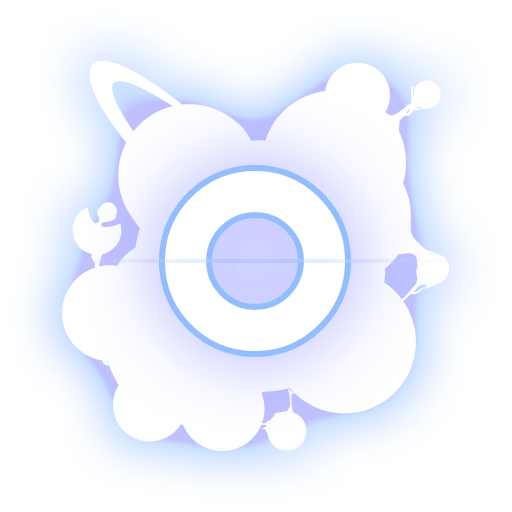
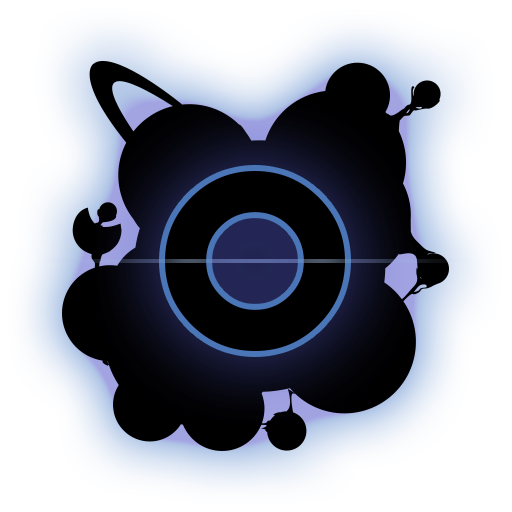
Endpoint-served background image

diff --git a/app/page.tsx b/app/page.tsx
@@ -35,6 +35,7 @@ import EditServerModal from "./EditServerModal";
 import DeleteServerModal from "./DeleteServerModal";
 import AboutModal from "./AboutModal";
 import LoginModal from "./LoginModal";
+import BackgroundImages from "./BackgroundImages";
 
 const initTasks: LoadingTask[] = [
   {
@@ -280,146 +281,147 @@ export default function Home() {
     <>
       <AlertList alerts={alerts} />
       {loadingTasks.length > 0 && <LoadingScreen tasks={loadingTasks} />}
-        <Container id="serverselector-container">
-          <Row id="of-logoheader" className="text-center pt-3">
-            <Col>
-              <Image
-                id="of-logo-light"
-                src={ofLogoLight}
-                alt="OpenFusion Logo"
-                width={256}
+      <BackgroundImages servers={servers} selectedServer={getSelectedServer()} />
+      <Container id="serverselector-container">
+        <Row id="of-logoheader" className="text-center pt-3">
+          <Col>
+            <Image
+              id="of-logo-light"
+              src={ofLogoLight}
+              alt="OpenFusion Logo"
+              width={256}
+            />
+            <Image
+              id="of-logo-dark"
+              src={ofLogoDark}
+              alt="OpenFusion Logo"
+              width={256}
+            />
+            <div id="of-intro-text">
+              {tagline.split("\n").map((line, index) => (
+                <p className="fw-bold" key={index}>{line}</p>
+              ))}
+            </div>
+          </Col>
+        </Row>
+        <Row
+          id="server-list"
+          className="d-sm-flex d-xl-flex justify-content-center justify-content-sm-center justify-content-xl-center"
+        >
+          <Col xs={8} className="mb-2">
+            <ServerList
+              servers={servers}
+              versions={versions}
+              selectedServer={selectedServer}
+              setSelectedServer={setSelectedServer}
+              onConnect={(serverUuid) => {
+                setSelectedServer(serverUuid);
+                showLoginOrConnect(serverUuid);
+              }}
+            />
+          </Col>
+        </Row>
+        <Row className="justify-content-center pb-4">
+          <Col xs={4}>
+            <Stack gap={1} direction="horizontal">
+              <Button
+                onClick={() => setShowAddModal(true)}
+                enabled={true}
+                variant="success"
+                icon="plus"
+                tooltip="Add server"
               />
-              <Image
-                id="of-logo-dark"
-                src={ofLogoDark}
-                alt="OpenFusion Logo"
-                width={256}
+              <Button
+                onClick={() => setShowEditModal(true)}
+                enabled={selectedServer ? true : false}
+                variant="primary"
+                icon="edit"
+                tooltip="Edit server"
               />
-              <div id="of-intro-text">
-                {tagline.split("\n").map((line, index) => (
-                  <p key={index}>{line}</p>
-                ))}
-              </div>
-            </Col>
-          </Row>
-          <Row
-            id="server-list"
-            className="d-sm-flex d-xl-flex justify-content-center justify-content-sm-center justify-content-xl-center"
-          >
-            <Col xs={8} className="mb-2">
-              <ServerList
-                servers={servers}
-                versions={versions}
-                selectedServer={selectedServer}
-                setSelectedServer={setSelectedServer}
-                onConnect={(serverUuid) => {
-                  setSelectedServer(serverUuid);
-                  showLoginOrConnect(serverUuid);
-                }}
+              <Button
+                onClick={() => setShowDeleteModal(true)}
+                enabled={selectedServer ? true : false}
+                variant="danger"
+                icon="trash"
+                tooltip="Delete server"
               />
-            </Col>
-          </Row>
-          <Row className="justify-content-center pb-4">
-            <Col xs={4}>
-              <Stack gap={1} direction="horizontal">
-                <Button
-                  onClick={() => setShowAddModal(true)}
-                  enabled={true}
-                  variant="success"
-                  icon="plus"
-                  tooltip="Add server"
-                />
-                <Button
-                  onClick={() => setShowEditModal(true)}
-                  enabled={selectedServer ? true : false}
-                  variant="primary"
-                  icon="edit"
-                  tooltip="Edit server"
-                />
-                <Button
-                  onClick={() => setShowDeleteModal(true)}
-                  enabled={selectedServer ? true : false}
-                  variant="danger"
-                  icon="trash"
-                  tooltip="Delete server"
-                />
-              </Stack>
-            </Col>
-            <Col xs={4}>
-              <Stack
-                gap={1}
-                direction="horizontal"
-                className="flex-row-reverse"
-              >
-                <Button
-                  onClick={() => showLoginOrConnect(selectedServer!)}
-                  enabled={selectedServer ? true : false}
-                  variant="primary"
-                  icon="angle-double-right"
-                  text="Connect "
-                />
-                <Button
-                  onClick={stub}
-                  enabled={true}
-                  variant="primary"
-                  icon="database"
-                  tooltip="Edit Game Builds"
-                />
-              </Stack>
-            </Col>
-          </Row>
-        </Container>
-        <div id="about-button-div">
-          <Button
-            onClick={() => setShowAboutModal(true)}
-            enabled={true}
-            variant="primary"
-            icon="info-circle"
-            tooltip="About OpenFusion Launcher"
-          />
-        </div>
-        <div id="config-button-div">
-          <Button
-            onClick={() => setShowConfigPage(true)}
-            enabled={true}
-            variant="primary"
-            icon="cog"
-            tooltip="Edit Configuration"
-          />
-        </div>
-        <EditServerModal
-          server={undefined}
-          versions={versions}
-          isAdd={true}
-          show={showAddModal}
-          setShow={setShowAddModal}
-          saveServer={saveServer}
+            </Stack>
+          </Col>
+          <Col xs={4}>
+            <Stack
+              gap={1}
+              direction="horizontal"
+              className="flex-row-reverse"
+            >
+              <Button
+                onClick={() => showLoginOrConnect(selectedServer!)}
+                enabled={selectedServer ? true : false}
+                variant="primary"
+                icon="angle-double-right"
+                text="Connect "
+              />
+              <Button
+                onClick={stub}
+                enabled={true}
+                variant="primary"
+                icon="database"
+                tooltip="Edit Game Builds"
+              />
+            </Stack>
+          </Col>
+        </Row>
+      </Container>
+      <div id="about-button-div">
+        <Button
+          onClick={() => setShowAboutModal(true)}
+          enabled={true}
+          variant="primary"
+          icon="info-circle"
+          tooltip="About OpenFusion Launcher"
         />
-        <EditServerModal
-          server={getSelectedServer()}
-          versions={versions}
-          isAdd={false}
-          show={showEditModal}
-          setShow={setShowEditModal}
-          saveServer={saveServer}
+      </div>
+      <div id="config-button-div">
+        <Button
+          onClick={() => setShowConfigPage(true)}
+          enabled={true}
+          variant="primary"
+          icon="cog"
+          tooltip="Edit Configuration"
         />
-        <DeleteServerModal
-          server={getSelectedServer()}
-          show={showDeleteModal}
-          setShow={setShowDeleteModal}
-          deleteServer={deleteServer}
-        />
-        <LoginModal
-          server={getSelectedServer()}
-          show={showLoginModal}
-          setShow={setShowLoginModal}
-          onSubmit={connectToServer}
-        />
-        <AboutModal
-          show={showAboutModal}
-          setShow={setShowAboutModal}
-          version={launcherVersion}
-        />
+      </div>
+      <EditServerModal
+        server={undefined}
+        versions={versions}
+        isAdd={true}
+        show={showAddModal}
+        setShow={setShowAddModal}
+        saveServer={saveServer}
+      />
+      <EditServerModal
+        server={getSelectedServer()}
+        versions={versions}
+        isAdd={false}
+        show={showEditModal}
+        setShow={setShowEditModal}
+        saveServer={saveServer}
+      />
+      <DeleteServerModal
+        server={getSelectedServer()}
+        show={showDeleteModal}
+        setShow={setShowDeleteModal}
+        deleteServer={deleteServer}
+      />
+      <LoginModal
+        server={getSelectedServer()}
+        show={showLoginModal}
+        setShow={setShowLoginModal}
+        onSubmit={connectToServer}
+      />
+      <AboutModal
+        show={showAboutModal}
+        setShow={setShowAboutModal}
+        version={launcherVersion}
+      />
       <LauncherPage show={showConfigPage} inactiveX={-1}>
         <div id="page-config">
           <div className="mx-auto text-center">hehe dong</div>

diff --git a/app/BackgroundImages.tsx b/app/BackgroundImages.tsx
@@ -1,0 +1,39 @@
+import { CSSProperties, useEffect, useState } from "react";
+import { ServerEntry } from "./types";
+
+const getBackgroundImageUrlForServer = (server?: ServerEntry) => {
+  if (server?.endpoint) {
+    return "http://" + server.endpoint + "/launcher/background.png";
+  }
+  return undefined;
+};
+
+const OPACITY = 0.25;
+
+const getStyleForServer = (imageUrl: string | undefined, selected: boolean) => {
+  return {
+    backgroundImage: imageUrl ? `url(${imageUrl})` : "none",
+    opacity: selected ? OPACITY : 0,
+  };
+};
+
+export default function BackgroundImages({
+  servers,
+  selectedServer,
+}: {
+  servers: ServerEntry[];
+  selectedServer?: ServerEntry;
+}) {
+  return (
+    <>
+      {servers.map((server) => {
+        const imageUrl = getBackgroundImageUrlForServer(server);
+        const selected = server.uuid === selectedServer?.uuid;
+        const style = getStyleForServer(imageUrl, selected);
+        return (
+          <div key={server.uuid} className="background-image" style={style} />
+        );
+      })}
+    </>
+  );
+}

diff --git a/app/css/openfusion-layout.scss b/app/css/openfusion-layout.scss
@@ -31,6 +31,20 @@ html, body {
     width: 33%;
 }
 
+.background-image {
+    position: fixed;
+    width: 100%;
+    height: 100%;
+    margin: 0;
+    padding: 0;
+    top: 0;
+    left: 0;
+    z-index: -1;
+    background-size: cover;
+    background-position: center;
+    transition: opacity 0.5s;
+}
+
 #loading-screen {
     position: fixed;
     width: 100%;
